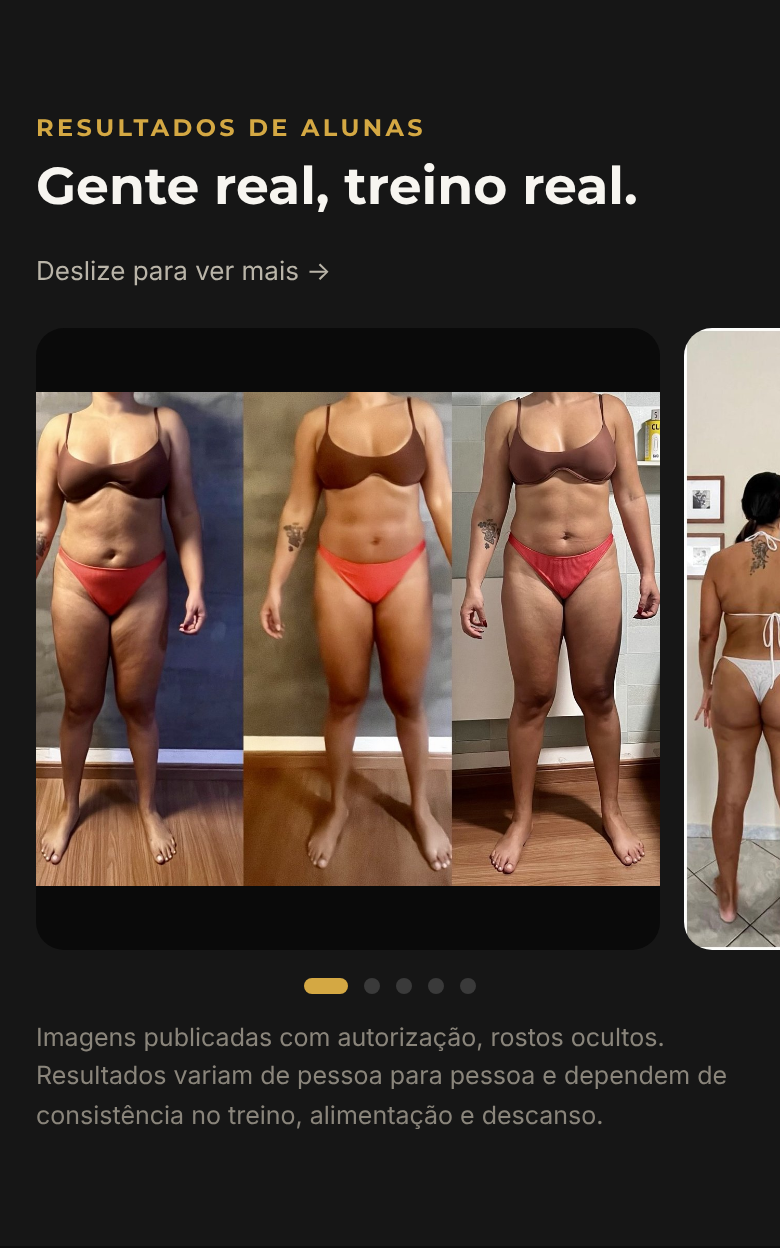
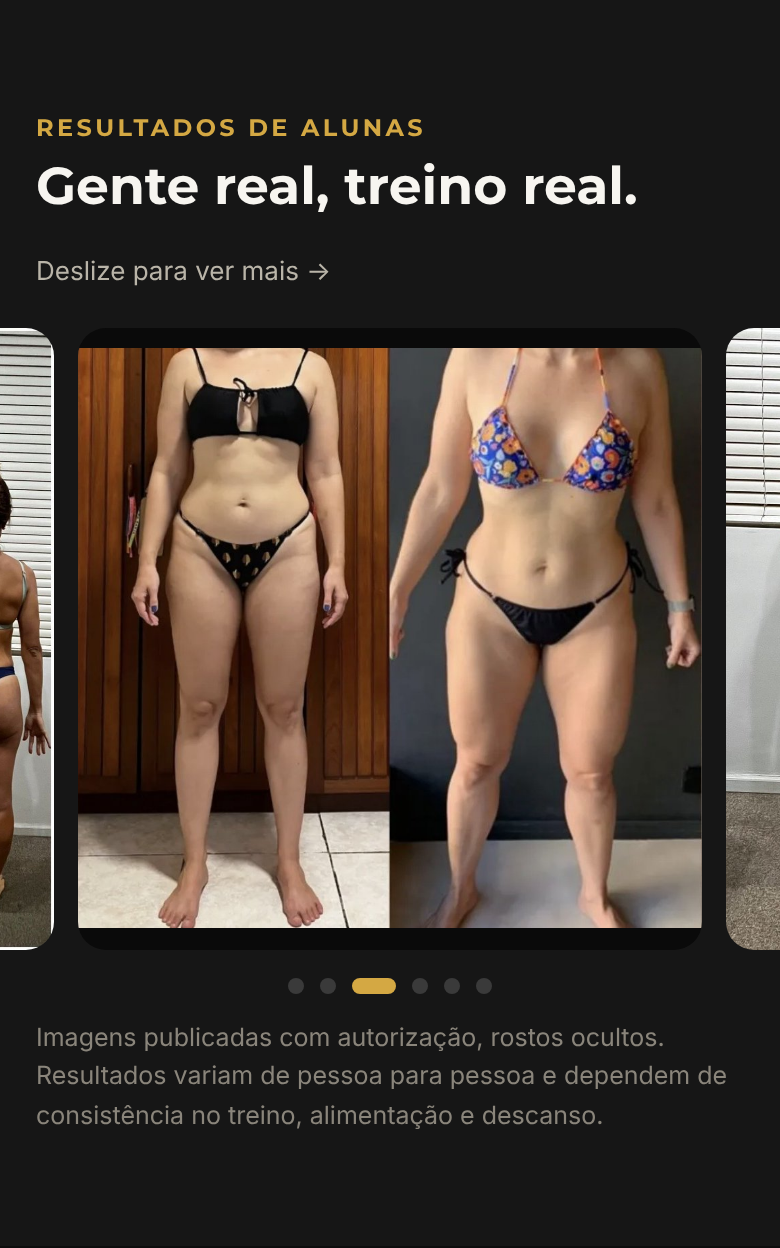
Adiciona sexta foto autorizada ao carrossel de resultados
Claude-Session: https://claude.ai/code/session_01GoY5VrWDzUqJDmMf4NugFR

diff --git a/landing/index.html b/landing/index.html
@@ -192,6 +192,7 @@
     <div class="carousel" id="car">
       <figure><img src="img/resultado-1.jpg" alt="Evolução de aluna em três momentos, vista de frente" loading="lazy"></figure>
       <figure><img src="img/resultado-2.jpg" alt="Evolução de aluna em quatro momentos, vista de costas" loading="lazy"></figure>
+      <figure><img src="img/resultado-6.jpg" alt="Antes e depois de aluna, vista de frente, com ganho de massa muscular" loading="lazy"></figure>
       <figure><img src="img/resultado-3.jpg" alt="Antes e depois de aluna, vista de frente" loading="lazy"></figure>
       <figure><img src="img/resultado-4.jpg" alt="Antes e depois de aluna, vistas laterais" loading="lazy"></figure>
       <figure><img src="img/resultado-5.jpg" alt="Antes e depois de aluna, vista de costas" loading="lazy"></figure>

diff --git a/CLAUDE.md b/CLAUDE.md
@@ -40,7 +40,7 @@ Fonte: dossiê exportado do ChatGPT em 08/11/2026. Itens marcados **[a confirmar
 ## Projetos
 | Projeto | Situação |
 |---|---|
-| Landing page da consultoria (mobile, fotos reais, rostos de alunos ocultos, sem legendas sobre fotos, botão WhatsApp) | `landing/index.html` com foto e logo; carrossel com 5 fotos autorizadas (`img/resultado-*`); fotos `aluna-2/3/4` sem autorização confirmada ficam fora do repo; foto em atendimento (frame de Reels, rosto da aluna oculto) em `img/anderson-treino.jpg` |
+| Landing page da consultoria (mobile, fotos reais, rostos de alunos ocultos, sem legendas sobre fotos, botão WhatsApp) | `landing/index.html` com foto e logo; carrossel com 6 fotos autorizadas (`img/resultado-*`); fotos `aluna-2/4` sem autorização confirmada ficam fora do repo; foto em atendimento (frame de Reels, rosto da aluna oculto) em `img/anderson-treino.jpg` |
 | Instagram (Reels, carrosséis, capas) e YouTube (~600 inscritos em jan/2024) | Contínuo |
 | Plataforma de musculação (níveis, volume semanal, treinos em casa de 15 min) | Ideia estruturada |
 | TABATA Step Training (Eduzz, até 30 min, mulheres) | Situação atual [a confirmar] |
